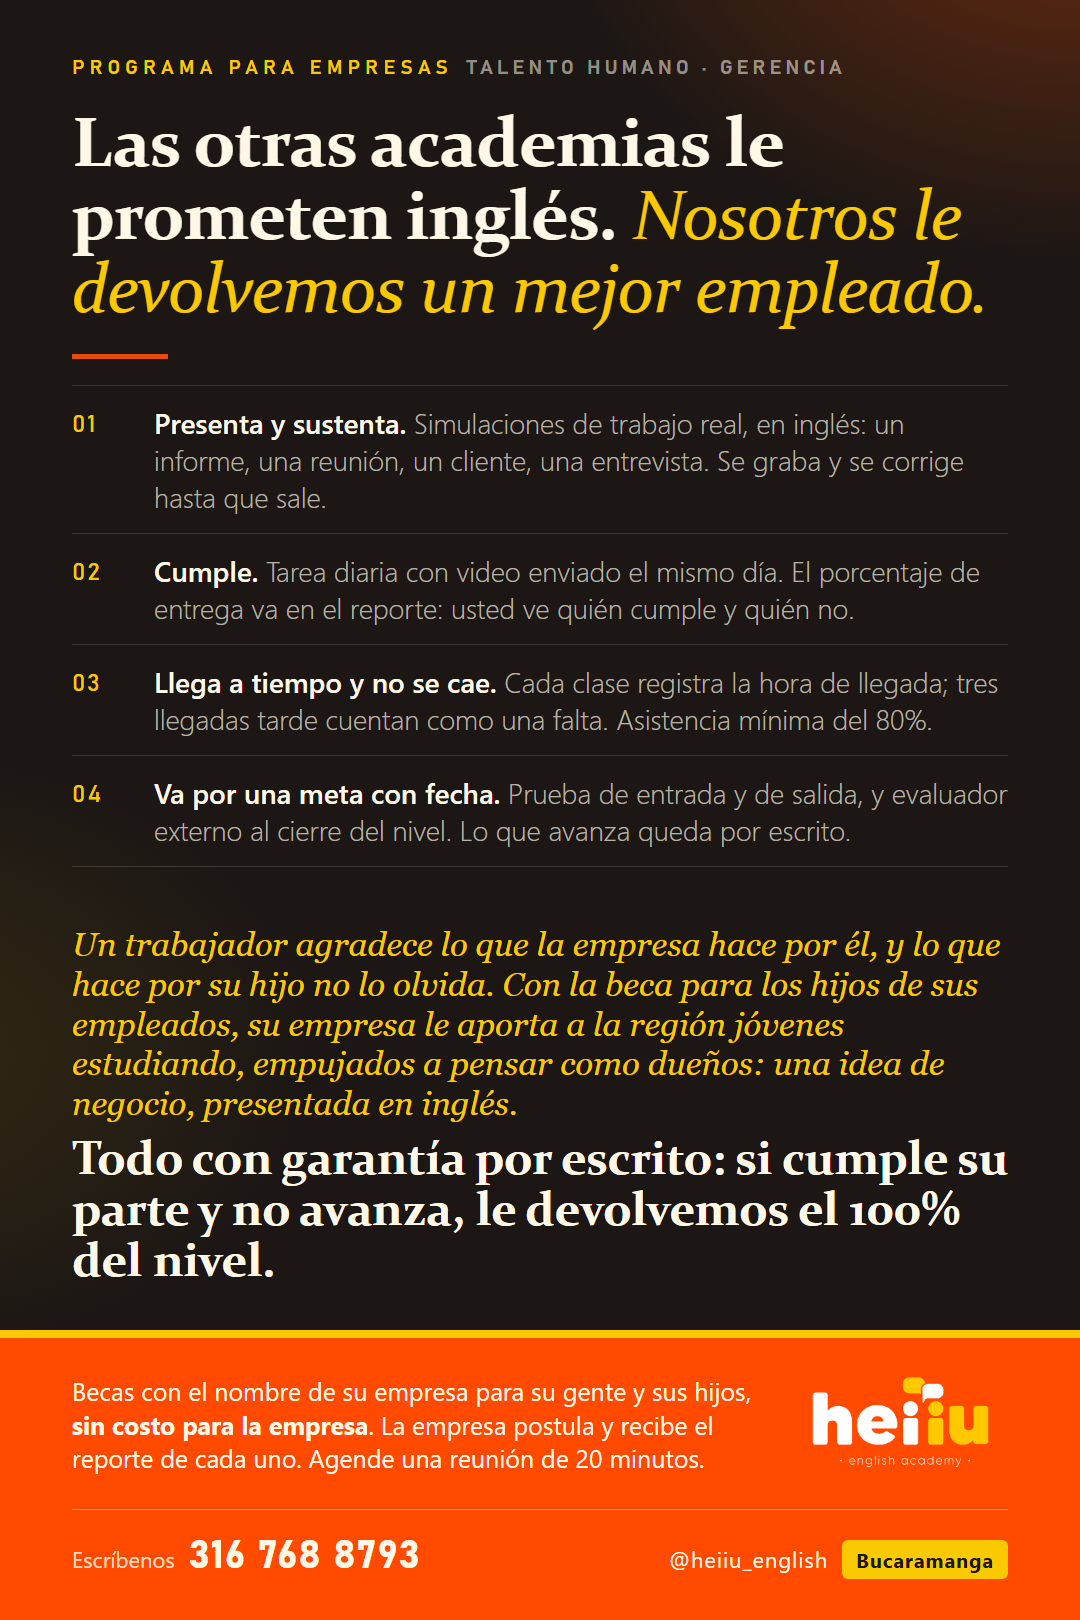
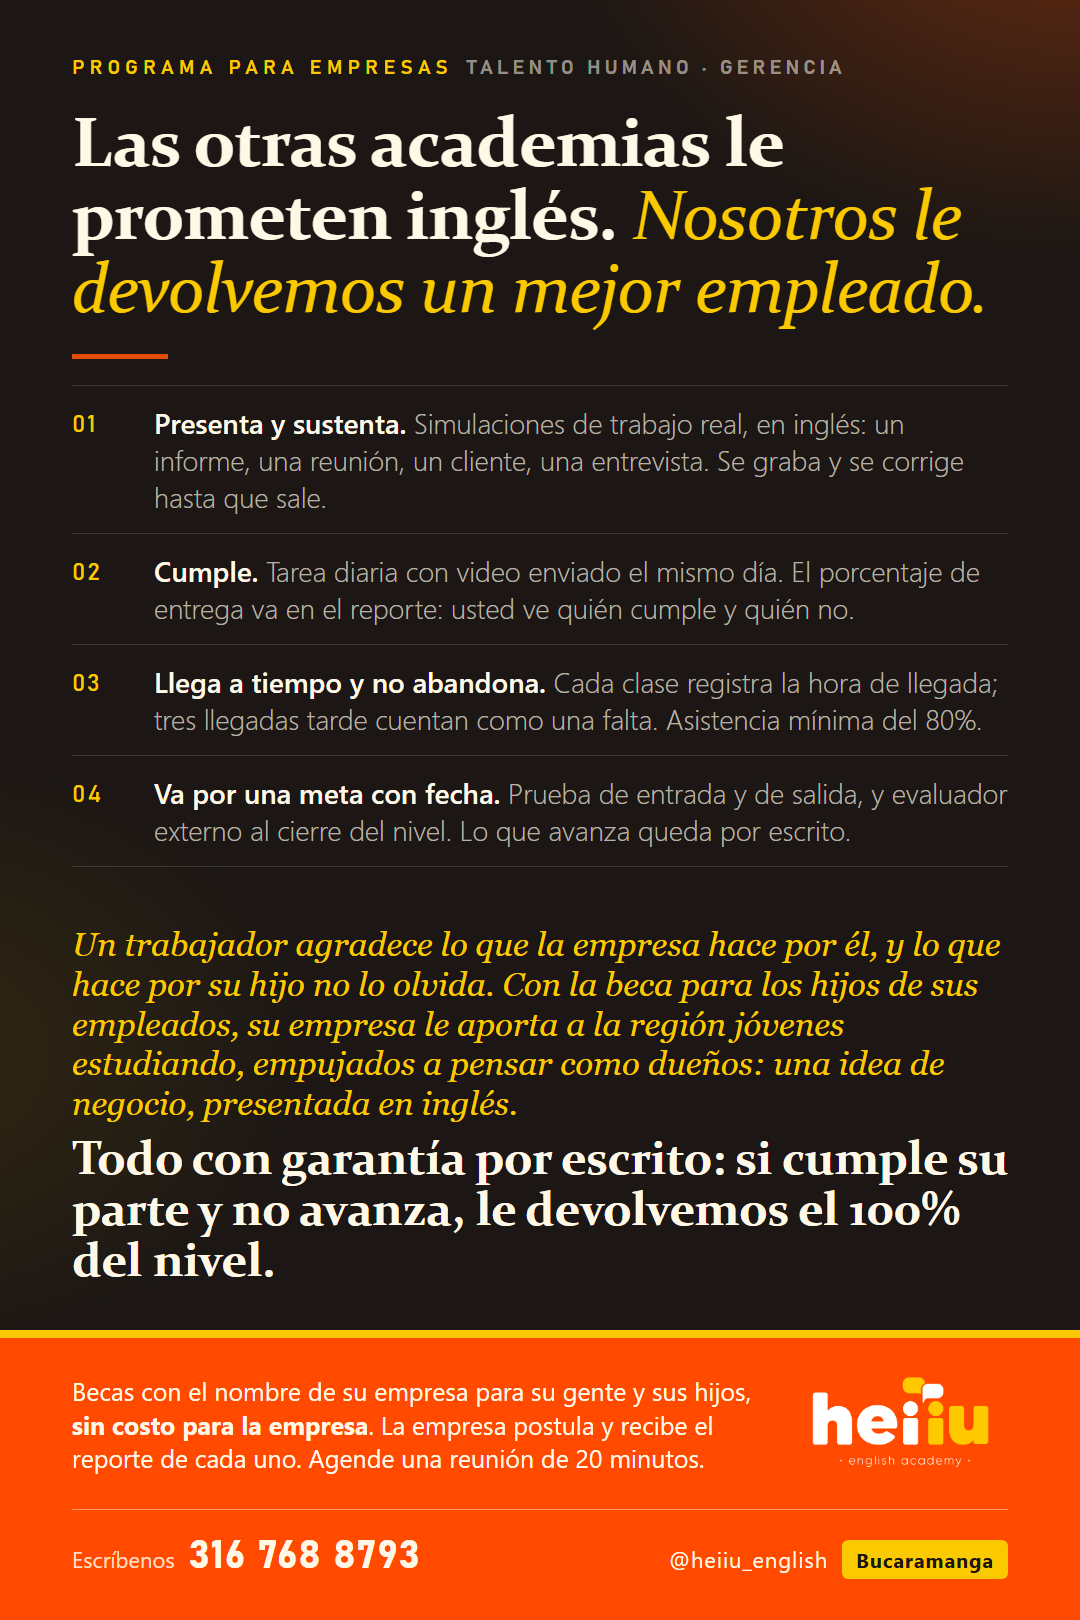
Pieza empresas: 'llega a tiempo y no abandona' en vez de 'no se cae'

Changed region(s): [[0.1222, 0.4012, 0.9167, 0.463]]

diff --git a/generadores/comercial/gen_piezas_conciencia.py b/generadores/comercial/gen_piezas_conciencia.py
@@ -243,7 +243,7 @@ PIEZAS = {
         h1='Las otras academias le prometen inglés. <em>Nosotros le devolvemos un mejor empleado.</em>',
         st=[('<b>Presenta y sustenta.</b> Simulaciones de trabajo real, en inglés: un informe, una reunión, un cliente, una entrevista. Se graba y se corrige hasta que sale.'),
             ('<b>Cumple.</b> Tarea diaria con video enviado el mismo día. El porcentaje de entrega va en el reporte: usted ve quién cumple y quién no.'),
-            ('<b>Llega a tiempo y no se cae.</b> Cada clase registra la hora de llegada; tres llegadas tarde cuentan como una falta. Asistencia mínima del 80%.'),
+            ('<b>Llega a tiempo y no abandona.</b> Cada clase registra la hora de llegada; tres llegadas tarde cuentan como una falta. Asistencia mínima del 80%.'),
             ('<b>Va por una meta con fecha.</b> Prueba de entrada y de salida, y evaluador externo al cierre del nivel. Lo que avanza queda por escrito, no en una sensación.')],
         lead='Y con la beca para los hijos de sus empleados, su empresa le aporta a la región lo que más le falta: jóvenes estudiando. A cada uno lo empujamos a pensar como dueño: una idea de negocio, presentada en inglés.',
         big='Todo con garantía por escrito: si el estudiante cumple su parte y no avanza, le devolvemos el 100% del nivel.',
@@ -271,7 +271,7 @@ PIEZAS = {
         h1='Las otras academias le prometen inglés. <em>Nosotros le devolvemos un mejor empleado.</em>',
         st=[('<b>Presenta y sustenta.</b> Simulaciones de trabajo real, en inglés: un informe, una reunión, un cliente, una entrevista. Se graba y se corrige hasta que sale.'),
             ('<b>Cumple.</b> Tarea diaria con video enviado el mismo día. El porcentaje de entrega va en el reporte: usted ve quién cumple y quién no.'),
-            ('<b>Llega a tiempo y no se cae.</b> Cada clase registra la hora de llegada; tres llegadas tarde cuentan como una falta. Asistencia mínima del 80%.'),
+            ('<b>Llega a tiempo y no abandona.</b> Cada clase registra la hora de llegada; tres llegadas tarde cuentan como una falta. Asistencia mínima del 80%.'),
             ('<b>Va por una meta con fecha.</b> Prueba de entrada y de salida, y evaluador externo al cierre del nivel. Lo que avanza queda por escrito.')],
         lead='Un trabajador agradece lo que la empresa hace por él, y lo que hace por su hijo no lo olvida. Con la beca para los hijos de sus empleados, su empresa le aporta a la región jóvenes estudiando, empujados a pensar como dueños: una idea de negocio, presentada en inglés.',
         big='Todo con garantía por escrito: si cumple su parte y no avanza, le devolvemos el 100% del nivel.',
